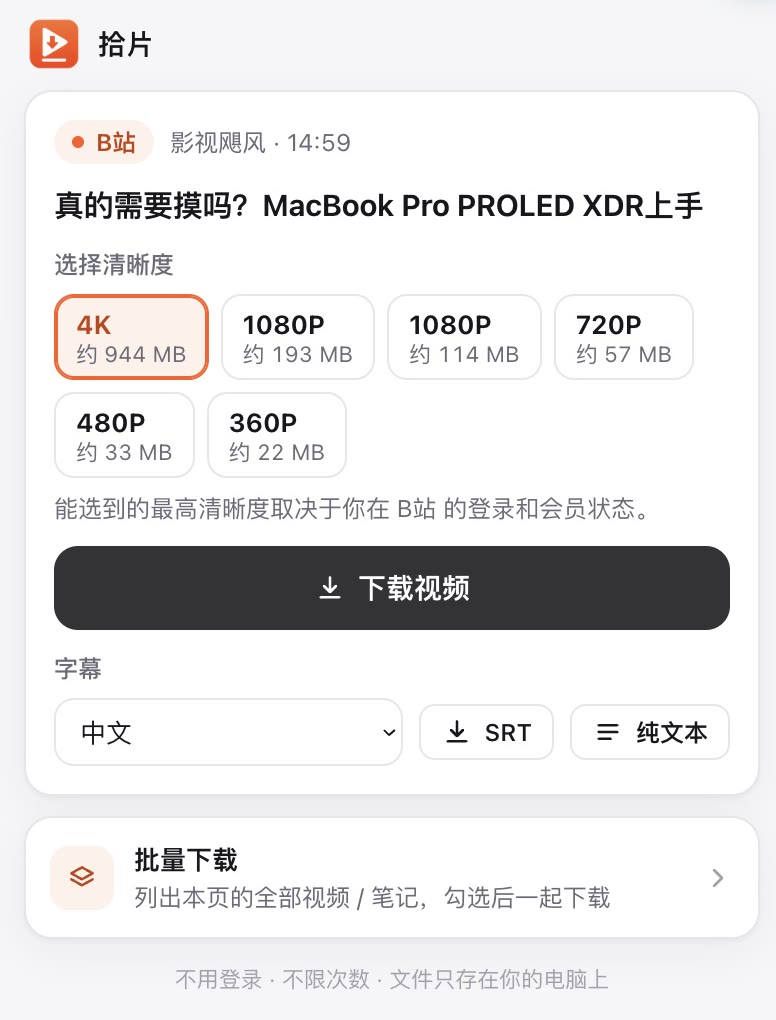
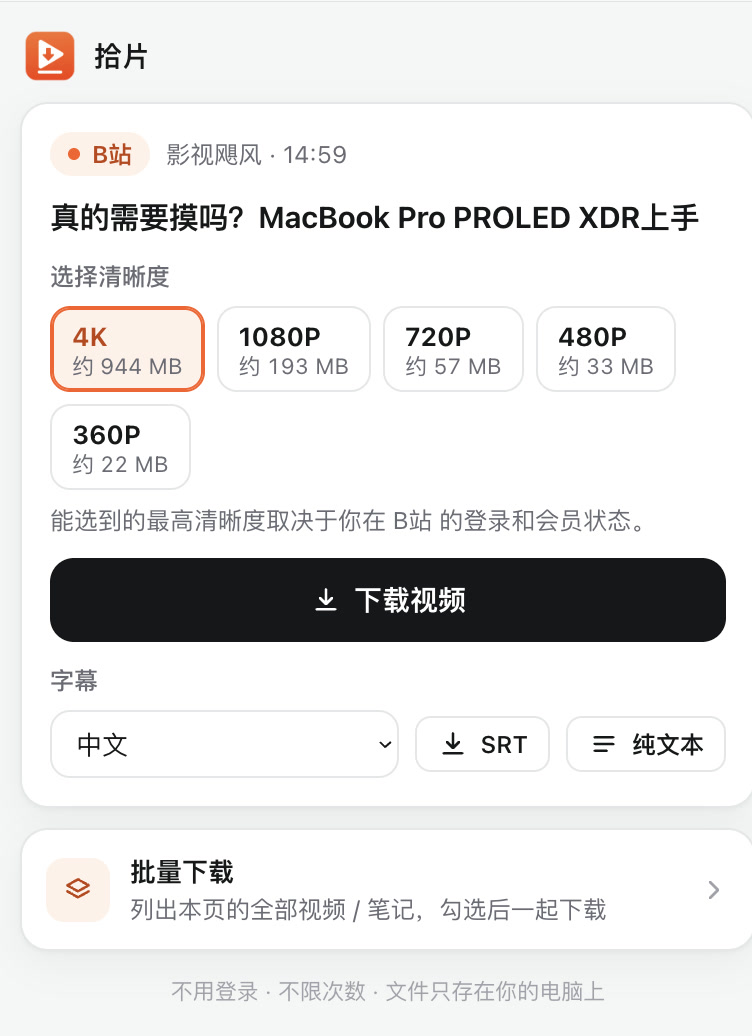
弹窗里 B站 同名清晰度只保留一个（修复出现两个 1080P）

diff --git a/popup.js b/popup.js
@@ -468,11 +468,20 @@ async function renderBili(tab, slot) {
     return true;
   }
   const base = { filename: info.title, referer: 'https://www.bilibili.com/' };
+  // 每个清晰度只给一个按钮。B站 的“1080P 高码率”和“1080P 高清”简称都是 1080P，
+  // 列表已按画质从高到低排好，同名的只留第一个（画质更好的那个）。
+  const seenLabel = new Set();
+  const qualities = info.qualities.filter((q) => {
+    const k = shortQuality(q.label);
+    if (seenLabel.has(k)) return false;
+    seenLabel.add(k);
+    return true;
+  });
   const view = {
     platform: 'B站',
     title: info.title,
     meta: [info.owner, fmtDur(info.duration)],
-    formats: info.qualities.map((q) => ({
+    formats: qualities.map((q) => ({
       label: shortQuality(q.label),
       sub: [q.size ? '约 ' + fmtSize(q.size) : '', q.codec && q.codec !== 'H.264' ? q.codec : ''].filter(Boolean).join(' · '),
       job: q.single || !info.audio ? { ...base, kind: 'direct', urls: q.urls } : { ...base, kind: 'merge', videoUrls: q.urls, audioUrls: info.audio.urls },
